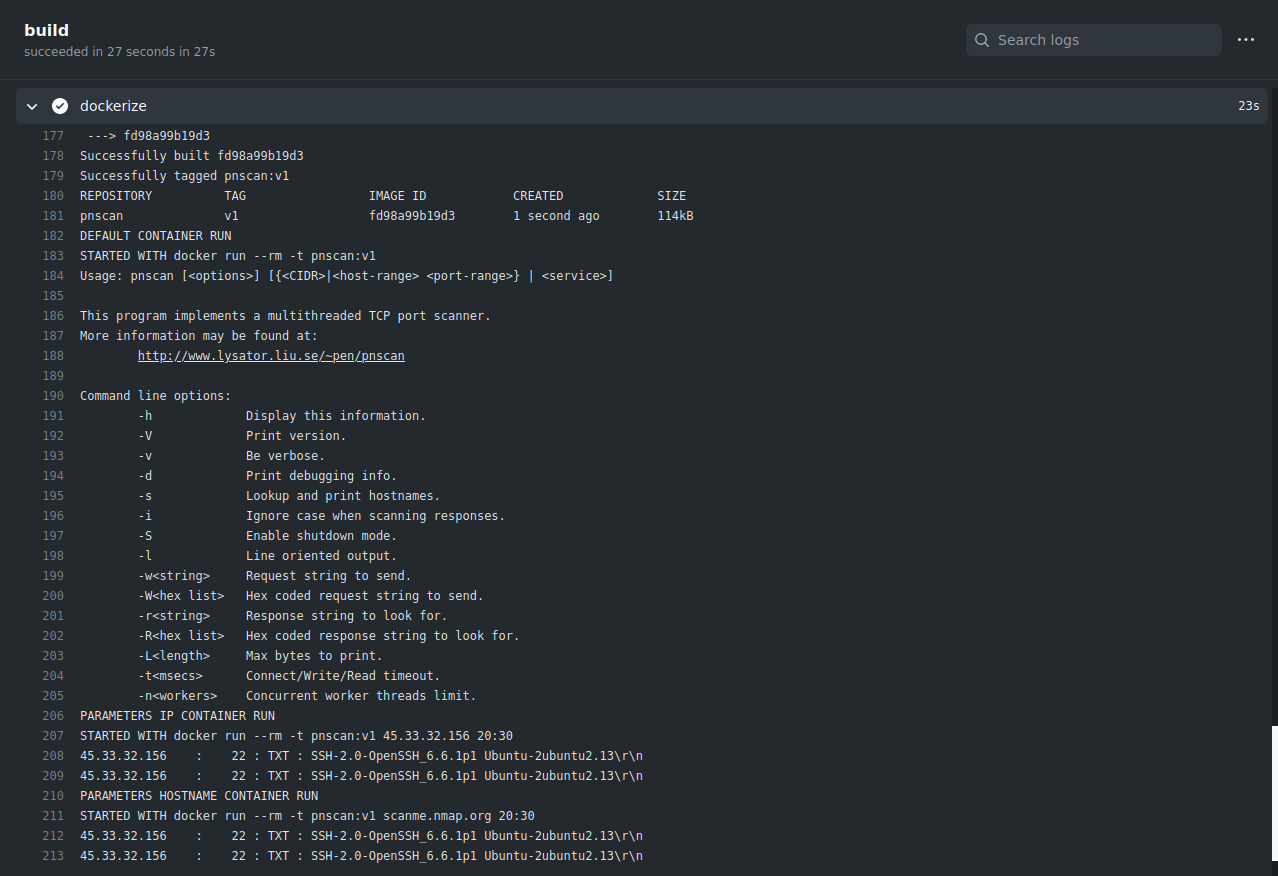
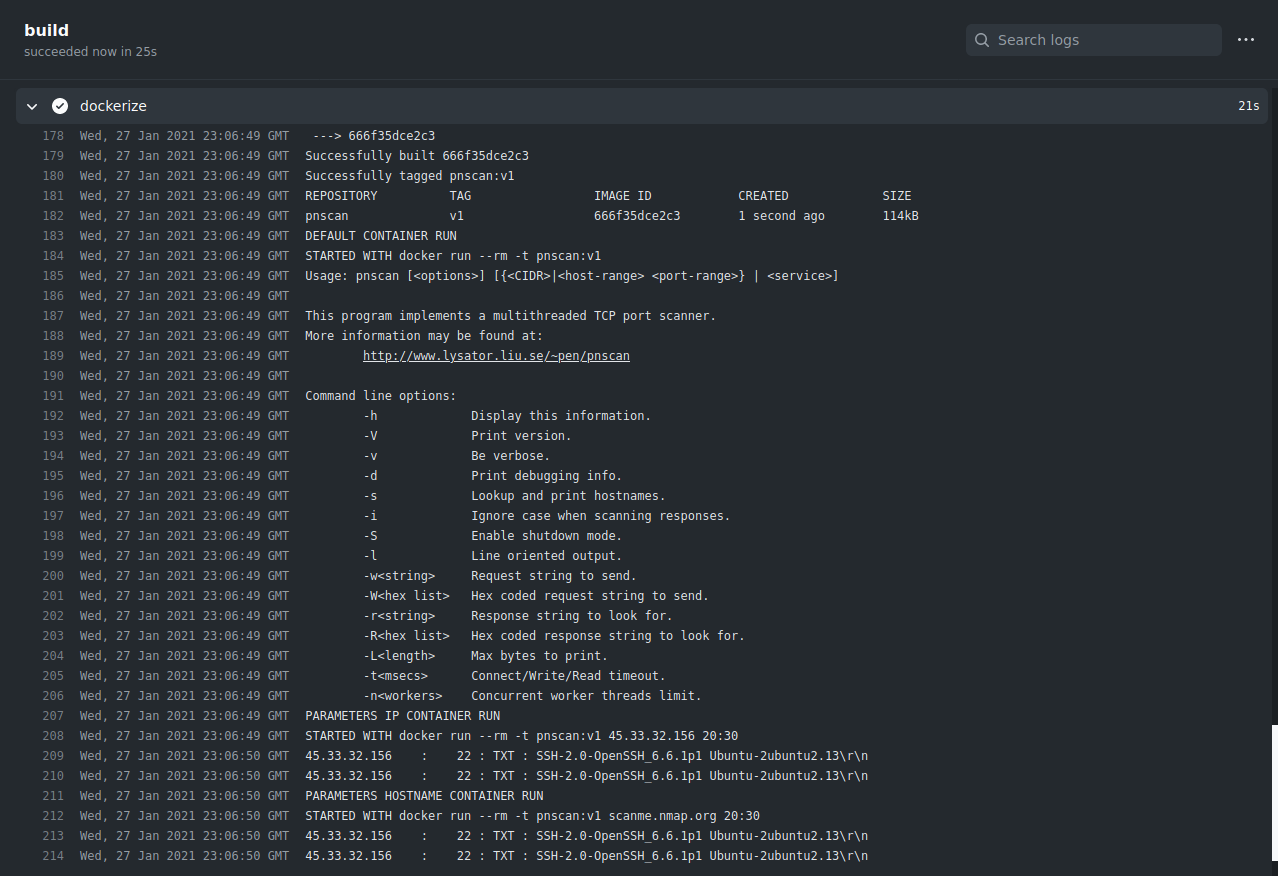
screenshot && rawlog changed

diff --git a/README.md b/README.md
@@ -4,4 +4,4 @@
 > _pnscan builder raw log_
 >
 
-[![IMAGE](./png/rawlog.png)](https://github.com/wryyyyyyyy/docker/commit/58c0283f1ac44069f20e5cc201136f200da22e77/checks/1779460352/logs)
+[![IMAGE](./png/rawlog.png)](https://github.com/wryyyyyyyy/docker/commit/5b60d437d49033f3c7a4668b52b4b664513d389b/checks/1780567423/logs)
